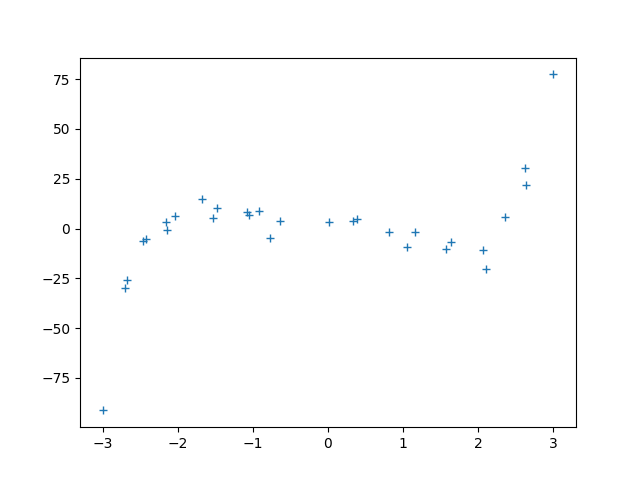
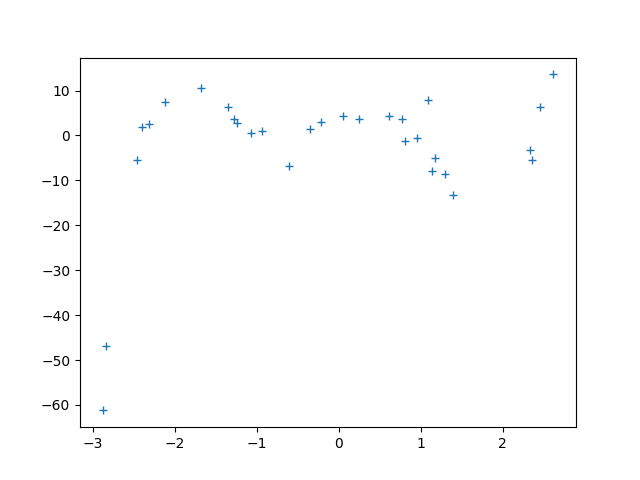
[5.3] - Fourth Evaluation & Results Discussion

diff --git a/fivedegree_gaussiannoise/better_model.py b/fivedegree_gaussiannoise/better_model.py
@@ -43,7 +43,7 @@ model.apply(init_weights)
 loss_function = nn.MSELoss()
 loss_history = list()
 learning_rate = 1e-3
-epochs = 500
+epochs = 1000
 
 # - - - - -
 
@@ -70,6 +70,7 @@ for epoch in range(epochs):
         optimizer.zero_grad()
 
         epoch_loss += difference.item()
+    print(difference)
 
     loss_history.append(epoch_loss / len(dataloader))
 
@@ -78,4 +79,25 @@ for epoch in range(epochs):
 plt.plot(range(epochs), loss_history)
 plt.xlabel('epoch')
 plt.ylabel('Loss (MSE)')
-plt.savefig('fivedegree_gaussiannoise/img/loss-epochs.png')
+plt.savefig('fivedegree_gaussiannoise/results/loss-epochs.png')
+plt.close()
+
+# - - - - -
+
+model.eval()
+
+y_predictions = list()
+
+for x_feature in x_sample:
+    with tt.no_grad():
+        prediction = model(tt.tensor([x_feature]).float())
+        denormalized_prediction = (prediction.item() * std_y) + mean_y
+        y_predictions.append(denormalized_prediction)
+
+# - - - - -
+
+plt.plot(x_values,y_clean)
+plt.plot(x_sample,y_sample,'+',color='red')
+plt.plot(x_sample,y_predictions)
+plt.savefig('fivedegree_gaussiannoise/results/training_results.png')
+plt.close()

diff --git a/fivedegree_gaussiannoise/gen_noisy_data.py b/fivedegree_gaussiannoise/gen_noisy_data.py
@@ -1,6 +1,5 @@
 import torch as tt
 import numpy as np
-import random as rd
 import matplotlib.pyplot as plt
 
 from torch.utils.data import DataLoader, Dataset
@@ -8,7 +7,7 @@ from torch.utils.data import DataLoader, Dataset
 # - - - - -
 
 class noisy_dataset(Dataset):
-    def __init__(self,x_sample,y_values):
+    def __init__(self,x_sample,y_sample):
         self.x_sample = x_sample
         self.y_sample = y_sample
     def __len__(self):

diff --git a/README.md b/README.md
@@ -388,7 +388,7 @@ To make our model better and improve the overall mapping, we'll have to change s
 * __Normalizing Targets:__ The `y_values` aren't normalized, so the gradient values tend to increase exponentially. This may affect smaller models.
 * __Adam optimizer:__ The SGD optimizer is good, but suffers dealing with more complex problems, let's also change it.
 
-### Noisier data
+#### Noisier data
 
 Instead of defining ``sigma = 0.5``, let's simply take the standard deviation of `y_clean` values and multiply by `0.2` then apply it to the noise function.
 ```
@@ -401,7 +401,7 @@ Now, our data is really fuzzy!
 
 ![sbnfdn](/fivedegree_gaussiannoise/img/sample_betternoisy.png)
 
-### Weight initialization
+#### Weight initialization
 Pytorch always initialize weights in a general way that allows almost every kind of neural network to use them. However, for our activation function ReLU (mainly due to negative weight values), there is a better option:
 
 ```
@@ -417,7 +417,7 @@ Xavier's uniform initialization prevents the weights to be at a _"dead state"_. 
 model.apply(init_weights)
 ```
 
-### Loss mapping
+#### Loss mapping
 Currently we can't see what is happening to the loss function, so we'll add a script to plot its behaviour throughout the epochs.
 
 Inside the epoch's loop, we'll calculate the mean of the differences given by the loss_function, then add everything to a list that will soon be plotted.
@@ -437,7 +437,7 @@ plt.ylabel('Loss (MSE)')
 plt.savefig('fivedegree_gaussiannoise/img/loss-epochs.png')
 ```
 
-### Activation function
+#### Activation function
 The _Rectified Linear Unit (ReLU)_ activation function will be changed to the Hyperbolic Tangent Function:
 
 $$\tanh(x) = \frac{e^x - e^{-x}}{e^x + e^{-x}}$$
@@ -460,7 +460,7 @@ def forward(self,x):
     return self.linear3(x2)
 ```
 
-### Normalizing Targets
+#### Normalizing Targets
 At the start of [better_model.py](/fivedegree_gaussiannoise/better_model.py), we'll be adding the info to normalize `y_values`:
 
 ```
@@ -483,7 +483,7 @@ for batch in dataloader:
 
 When we evaluate the model, the ``y_predictions`` must be denormalized to avoid problems while plotting.
 
-### Adam optimizer
+#### Adam optimizer
 The Adam optimizer or _Adaptive Moment Optimization_ is a popular optimization algorithm that computes adaptive learning rates for each parameter by maintaining moving averages of both the gradients and their squared values. This concept of moving averages is called **momentum** and wasn't being used previously in our script.
 
 ![adamfdn](/fivedegree_gaussiannoise/img/adamfunctions.png)
@@ -505,6 +505,25 @@ optimizer = tt.optim.Adam(
 ```
 
 We are ready to finally see how our new improved model will deal with noisy data!
+
+### Evaluation (Improved Noisy Model)
+To translate the normalized `y_predictions` we will multiply the values by `std_y` plus `mean_y`.
+```
+prediction = model(tt.tensor([x_feature]).float())
+denormalized_prediction = (prediction.item() * std_y) + mean_y
+y_predictions.append(denormalized_prediction)
+```
+And, for better results, let's increase the epochs to `1000` but keep the other hyperparameters still (`learning_rate = 1e-3`).
+
+![lossfdn](/fivedegree_gaussiannoise/results/loss-epochs.png)
+
+Our loss function is excellent! We can clearly see that the model is learning correctly, as the _mean squared error_ (loss) is **decreasing**.
+
+![rfdn](/fivedegree_gaussiannoise/results/training_results.png)
+
+The model presents a classic case of overfitting. Instead of learning the fifth degree function behaviour, the 32-neuron network **memorized the random fluctuations** of the training data. This is evidenced by the **loss of smoothness** in the orange curve, which oscillates to reach specific noise points.
+
+As a result, the model lost its ability to generalize, failing especially in extrapolating values at the end of the interval. Although this problem was expected, we'll now develop a **simple but effective solution**.
 
 ## Setup Instructions (Second Example)
 To run the code, if you haven't done this yet, start by cloning the github repository.
